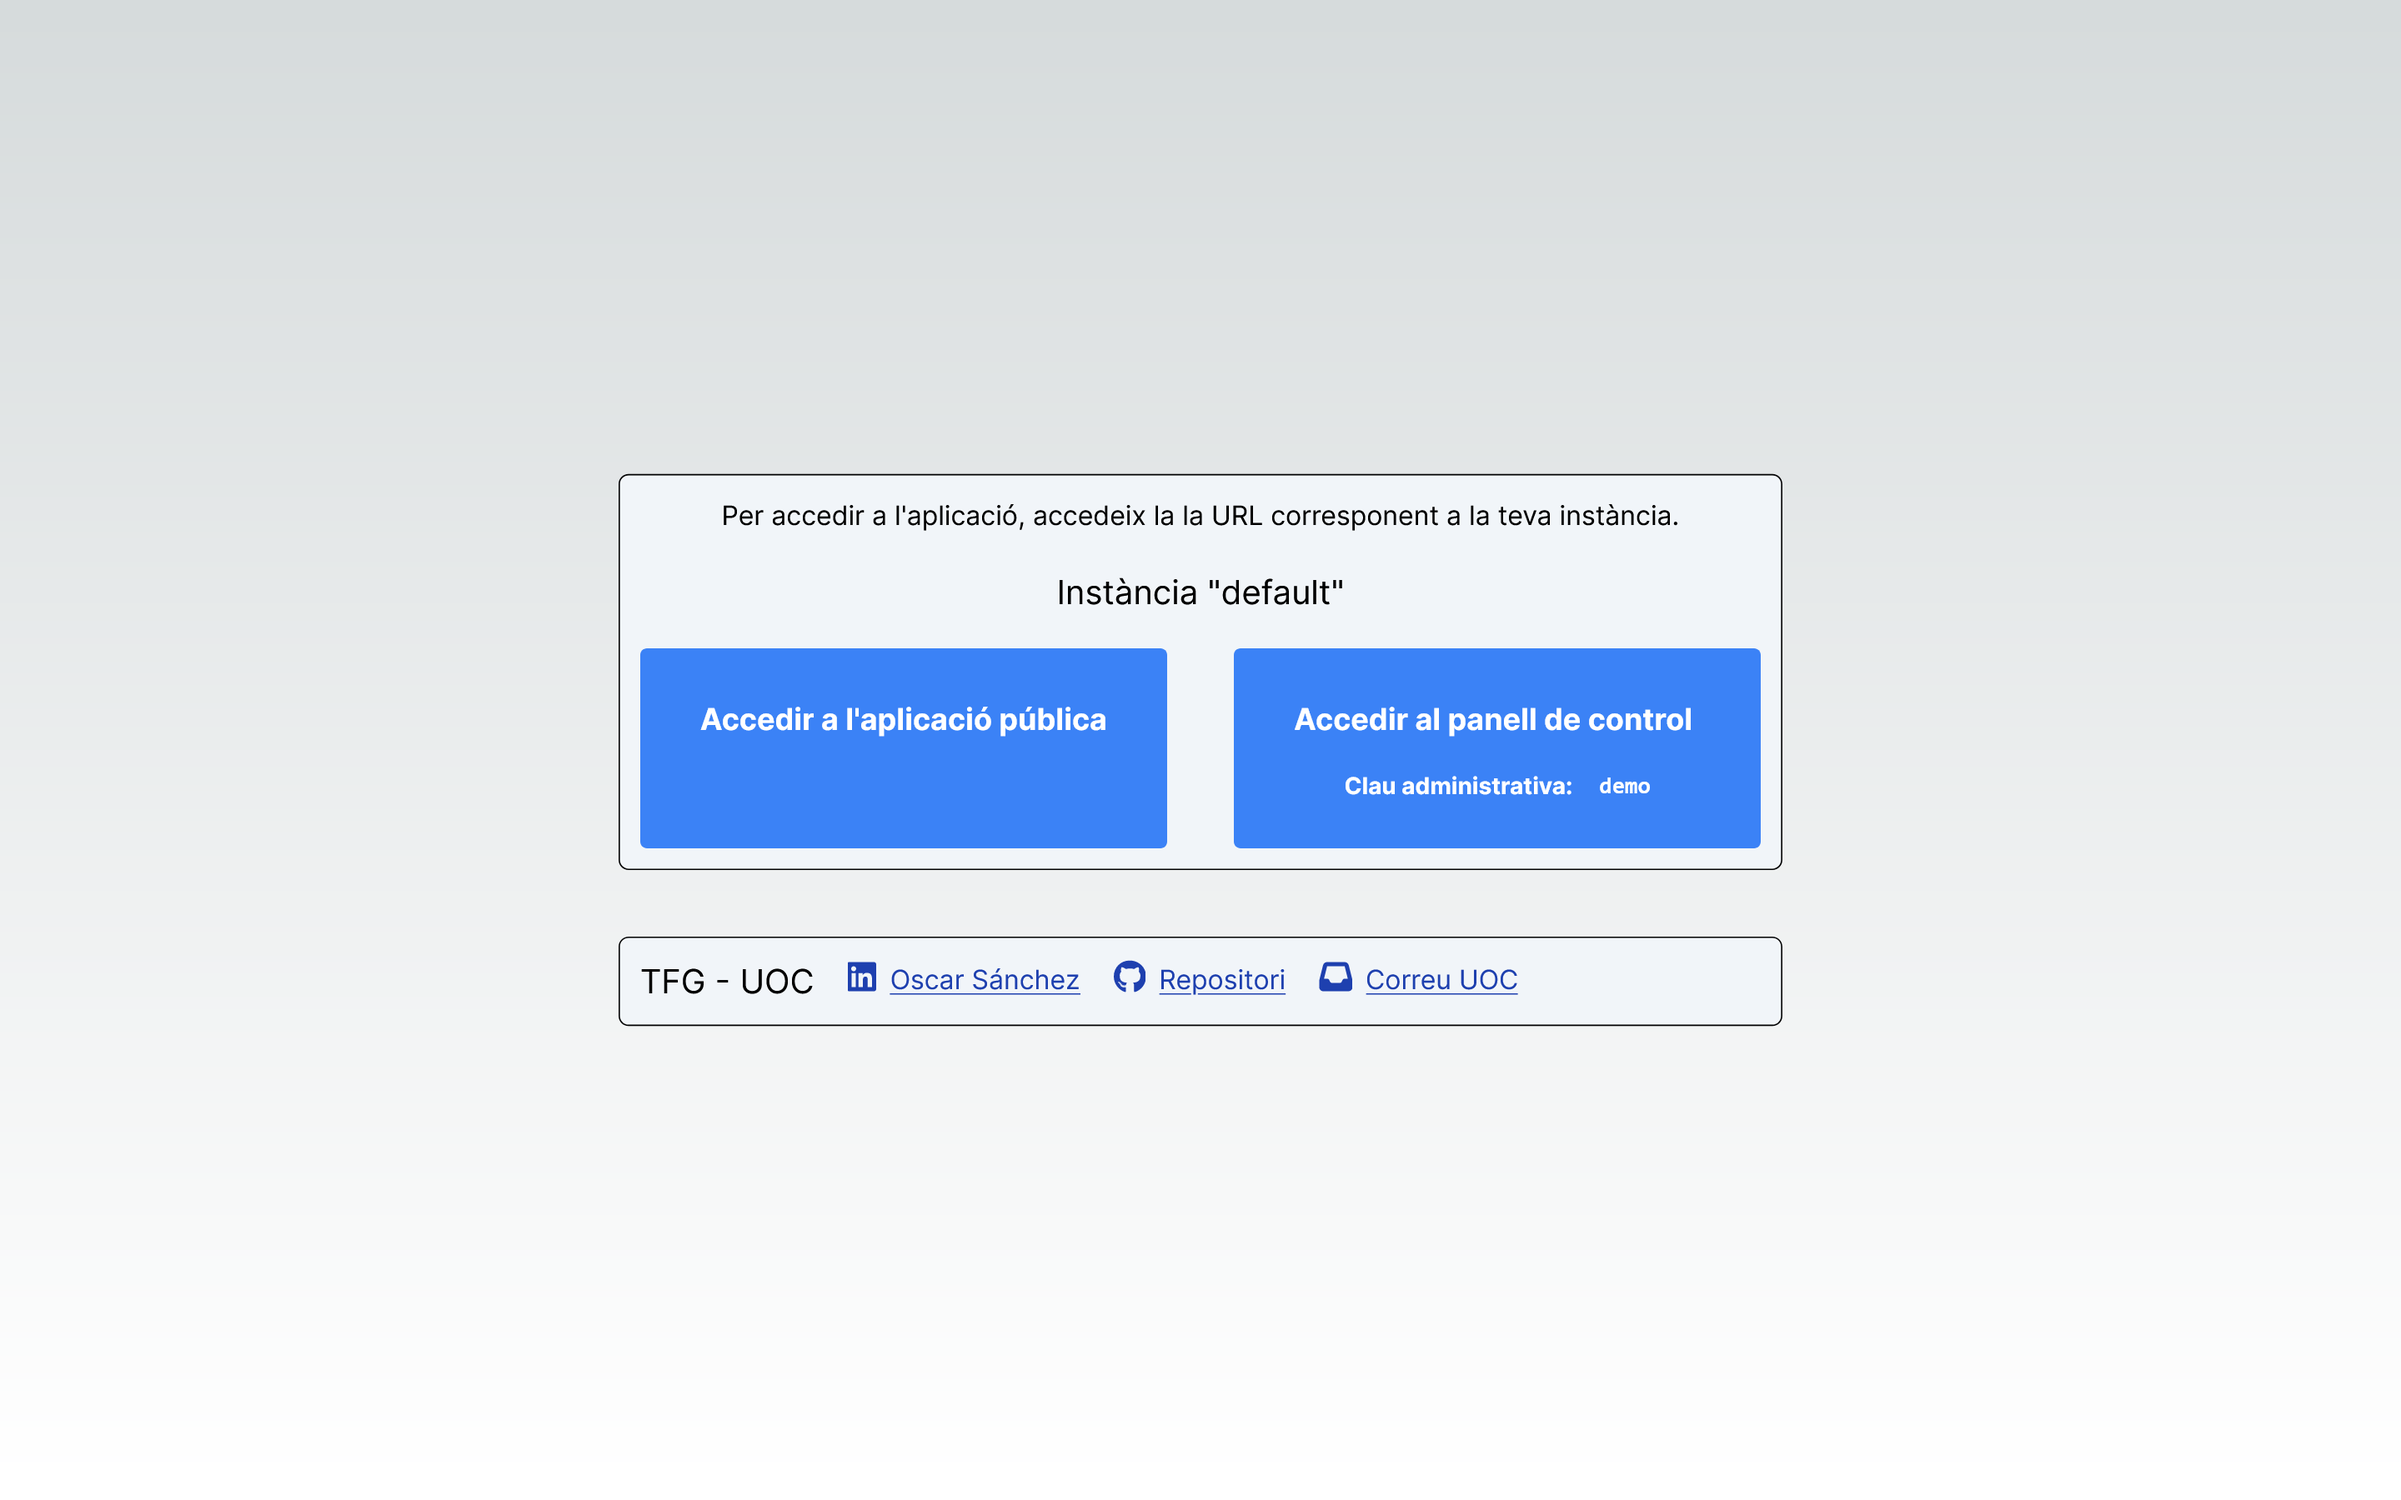
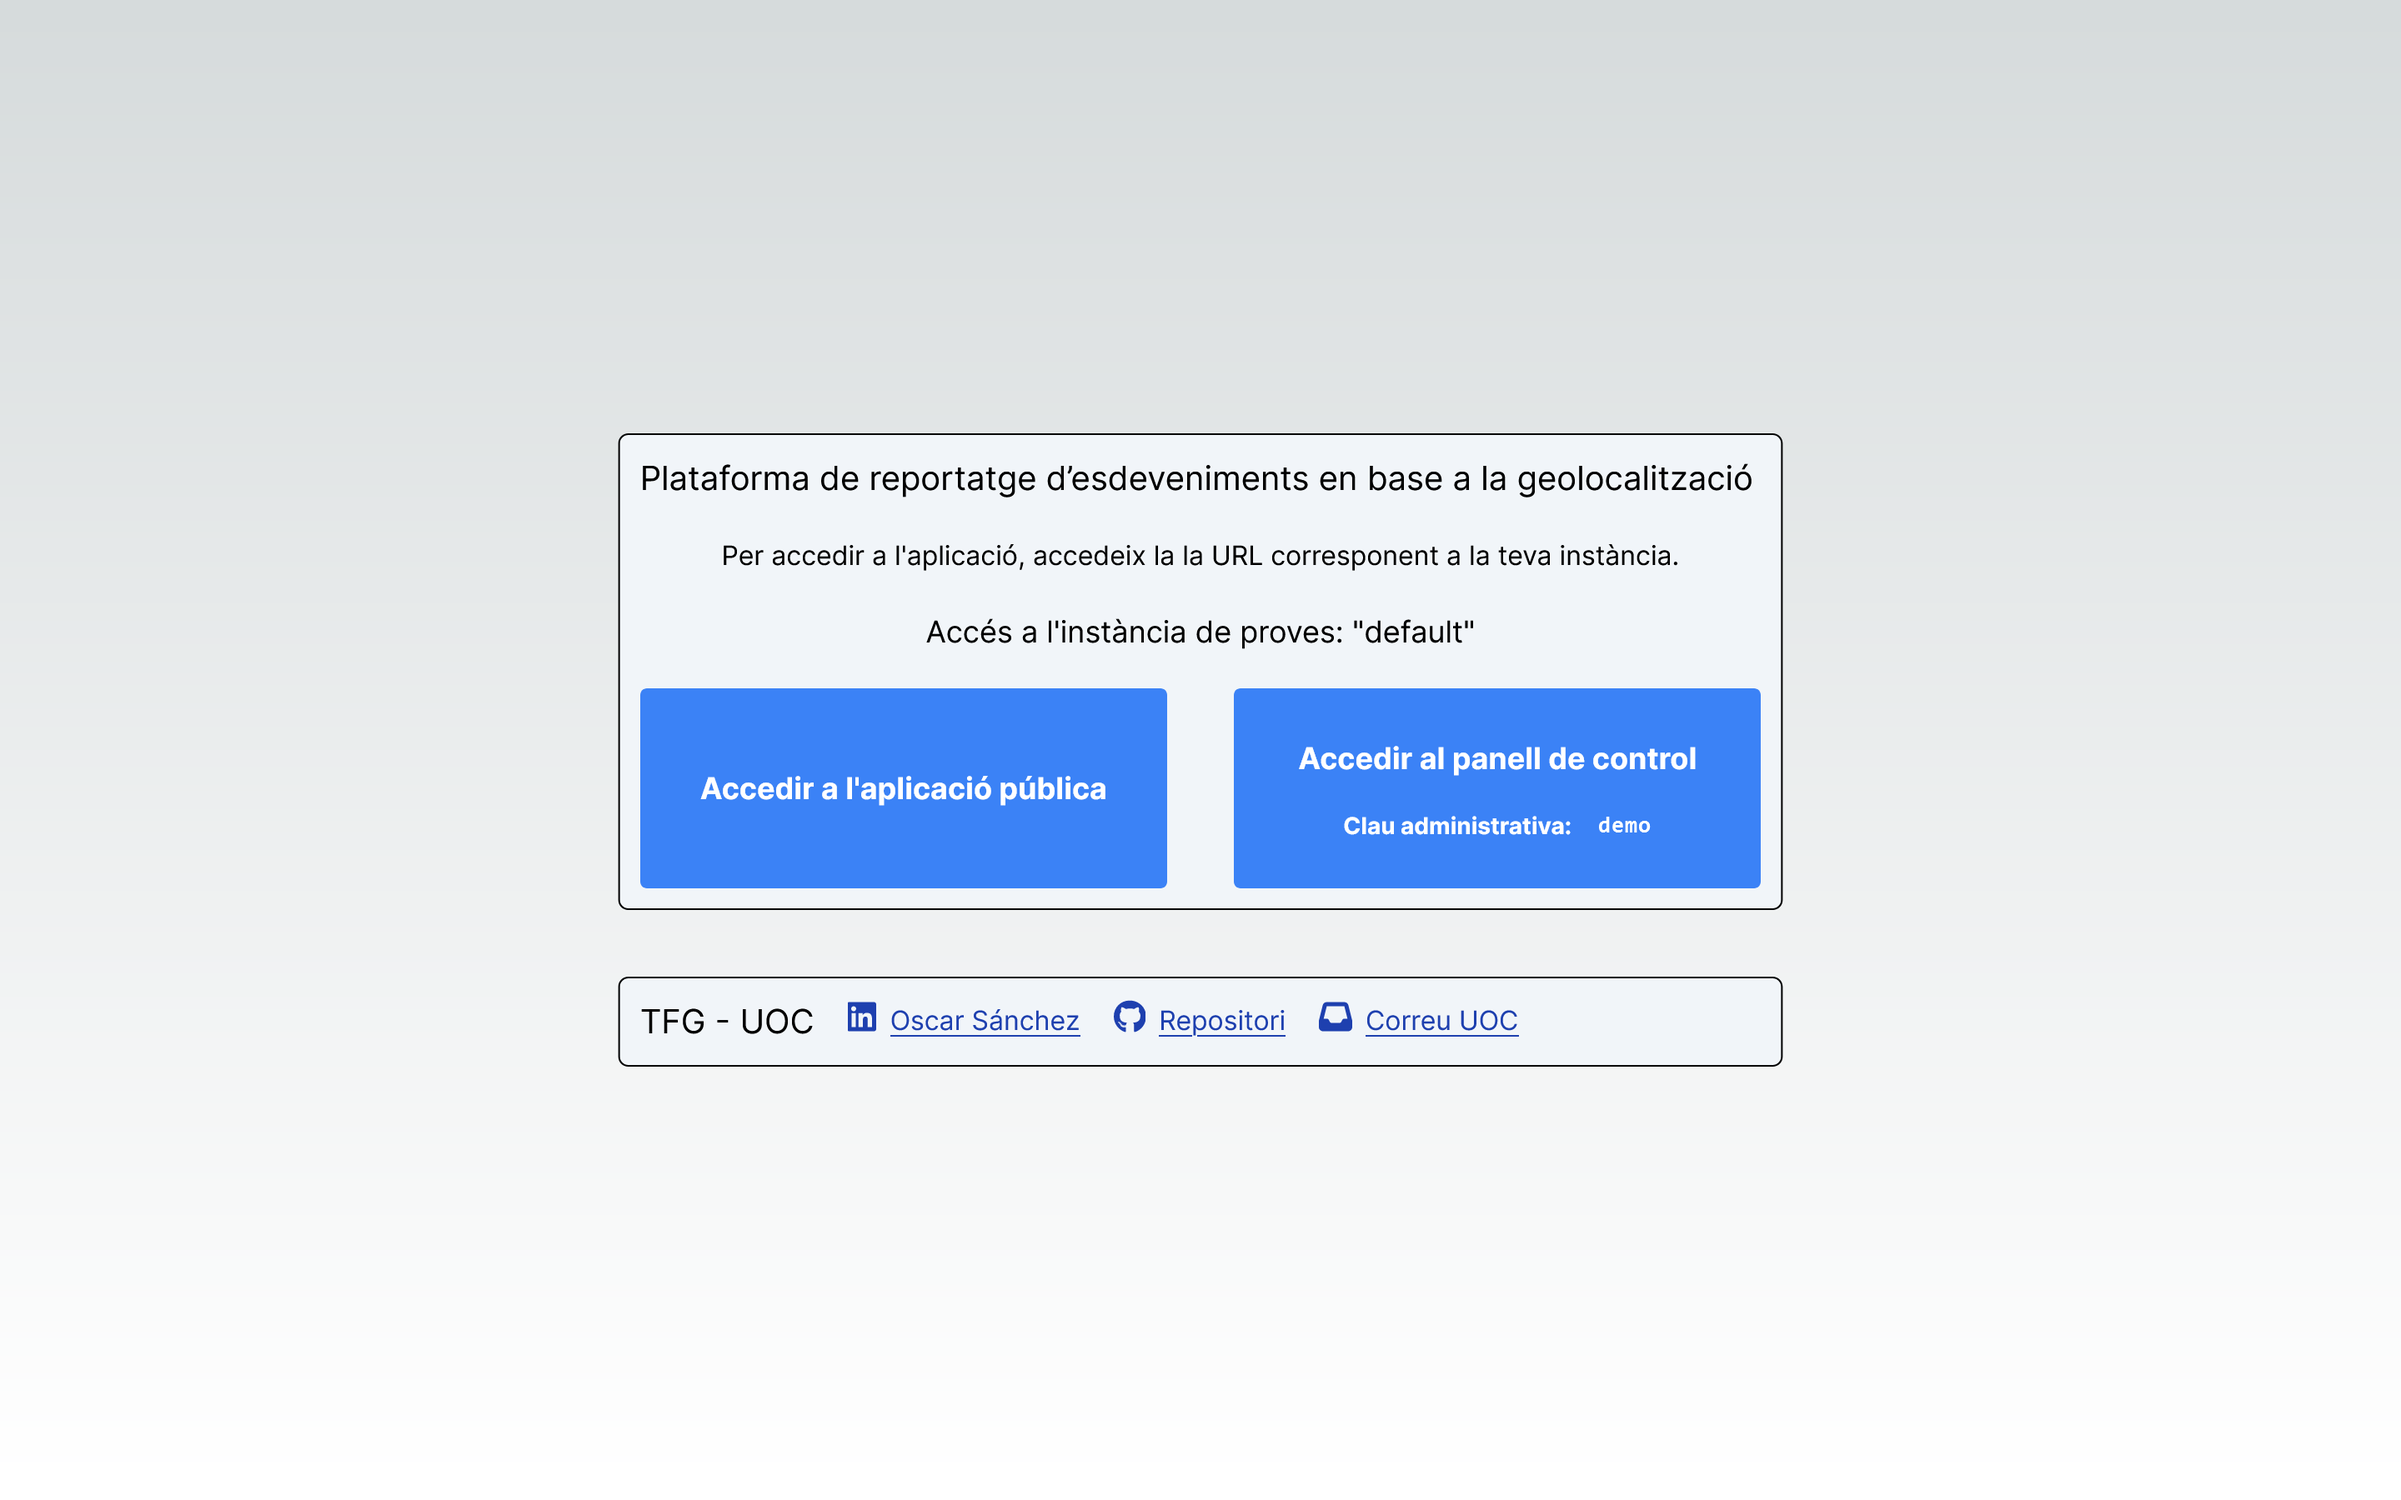
refactor: minor improvements

Changed region(s): [[0.25, 0.3111, 0.75, 0.5911], [0.25, 0.6222, 0.6562, 0.7156]]

diff --git a/src/app/components/LandingPage.tsx b/src/app/components/LandingPage.tsx
@@ -10,8 +10,9 @@ export default function LandingPage() {
         <div className='flex flex-col gap-10'>
             <CardComponent>
                 <div className='flex flex-col gap-3 sm:gap-5'>
+                    <h1 className='text-xl'>Plataforma de reportatge d’esdeveniments en base a la geolocalització</h1>
                     <p className='text-center'>Per accedir a l'aplicació, accedeix la la URL corresponent a la teva instància.</p>
-                    <h2 className='text-xl text-center'>Instància "default"</h2>
+                    <h2 className='text-lg text-center'>Accés a l'instància de proves: "default"</h2>
                     <div className='grid grid-cols-1 sm:grid-cols-2 gap-3 sm:gap-10'>
                         <Button href='/default' target='_blank' className='text-blue-800'>
                             <p className='m-5 text-lg'>

diff --git a/src/app/page.tsx b/src/app/page.tsx
@@ -1,4 +1,4 @@
-import LandingPage from '@src/app/[tenant]/(public-app)/components/LandingPage';
+import LandingPage from '@src/app/components/LandingPage';
 
 export default function Home() {
 

diff --git a/README.md b/README.md
@@ -162,7 +162,7 @@ This is an example of how to list things you need to use the software and how to
     - [x] Site config management
 - [ ] Testing
     - [x] Check what if location does not work or is not enabled
-    - [ ] Check admin fence
+    - [x] Check admin fence
     - [ ] Report propvided by known persons
 - [ ] Extra improvements:
     - [ ] Use NextResponse instead Response
